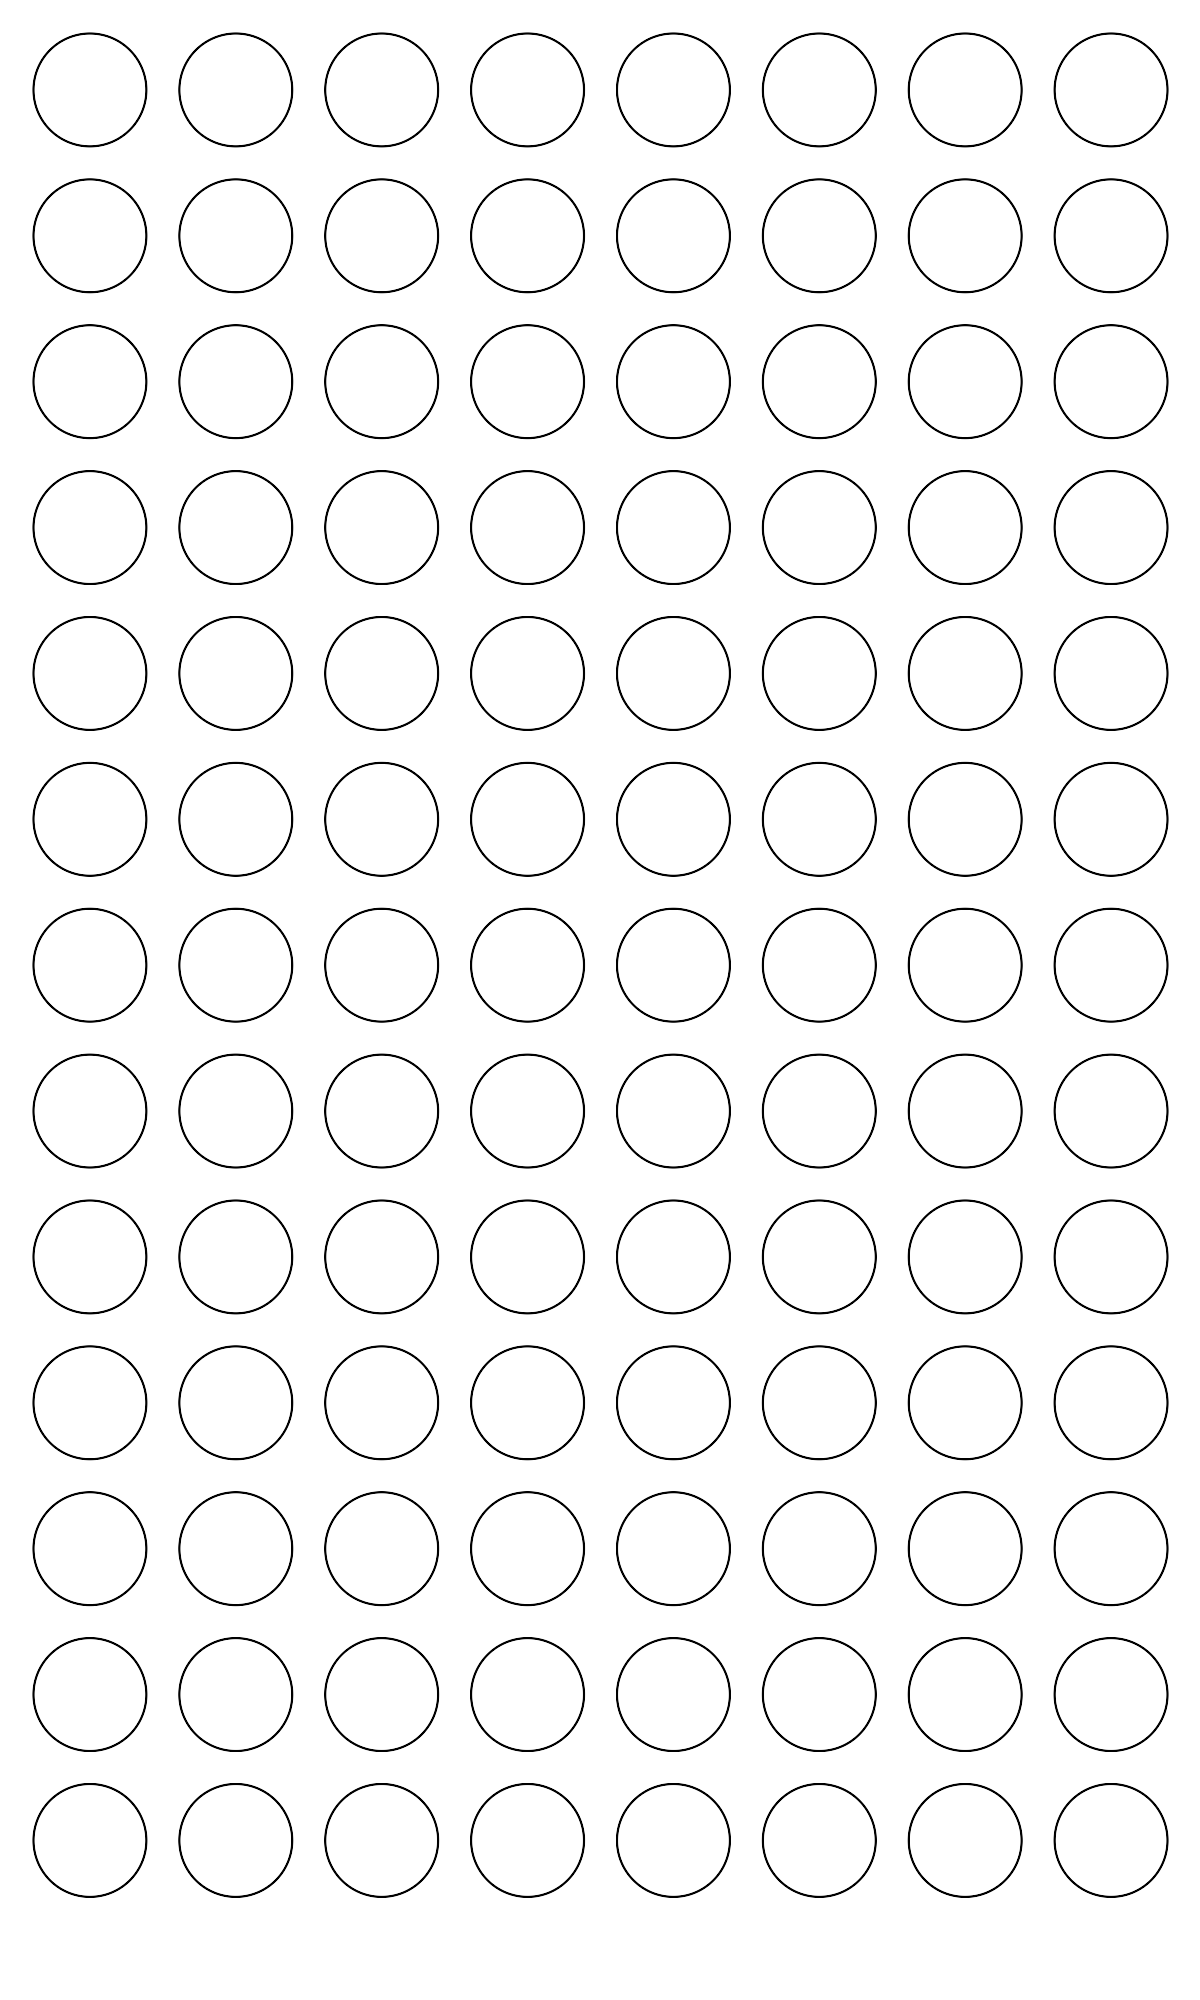
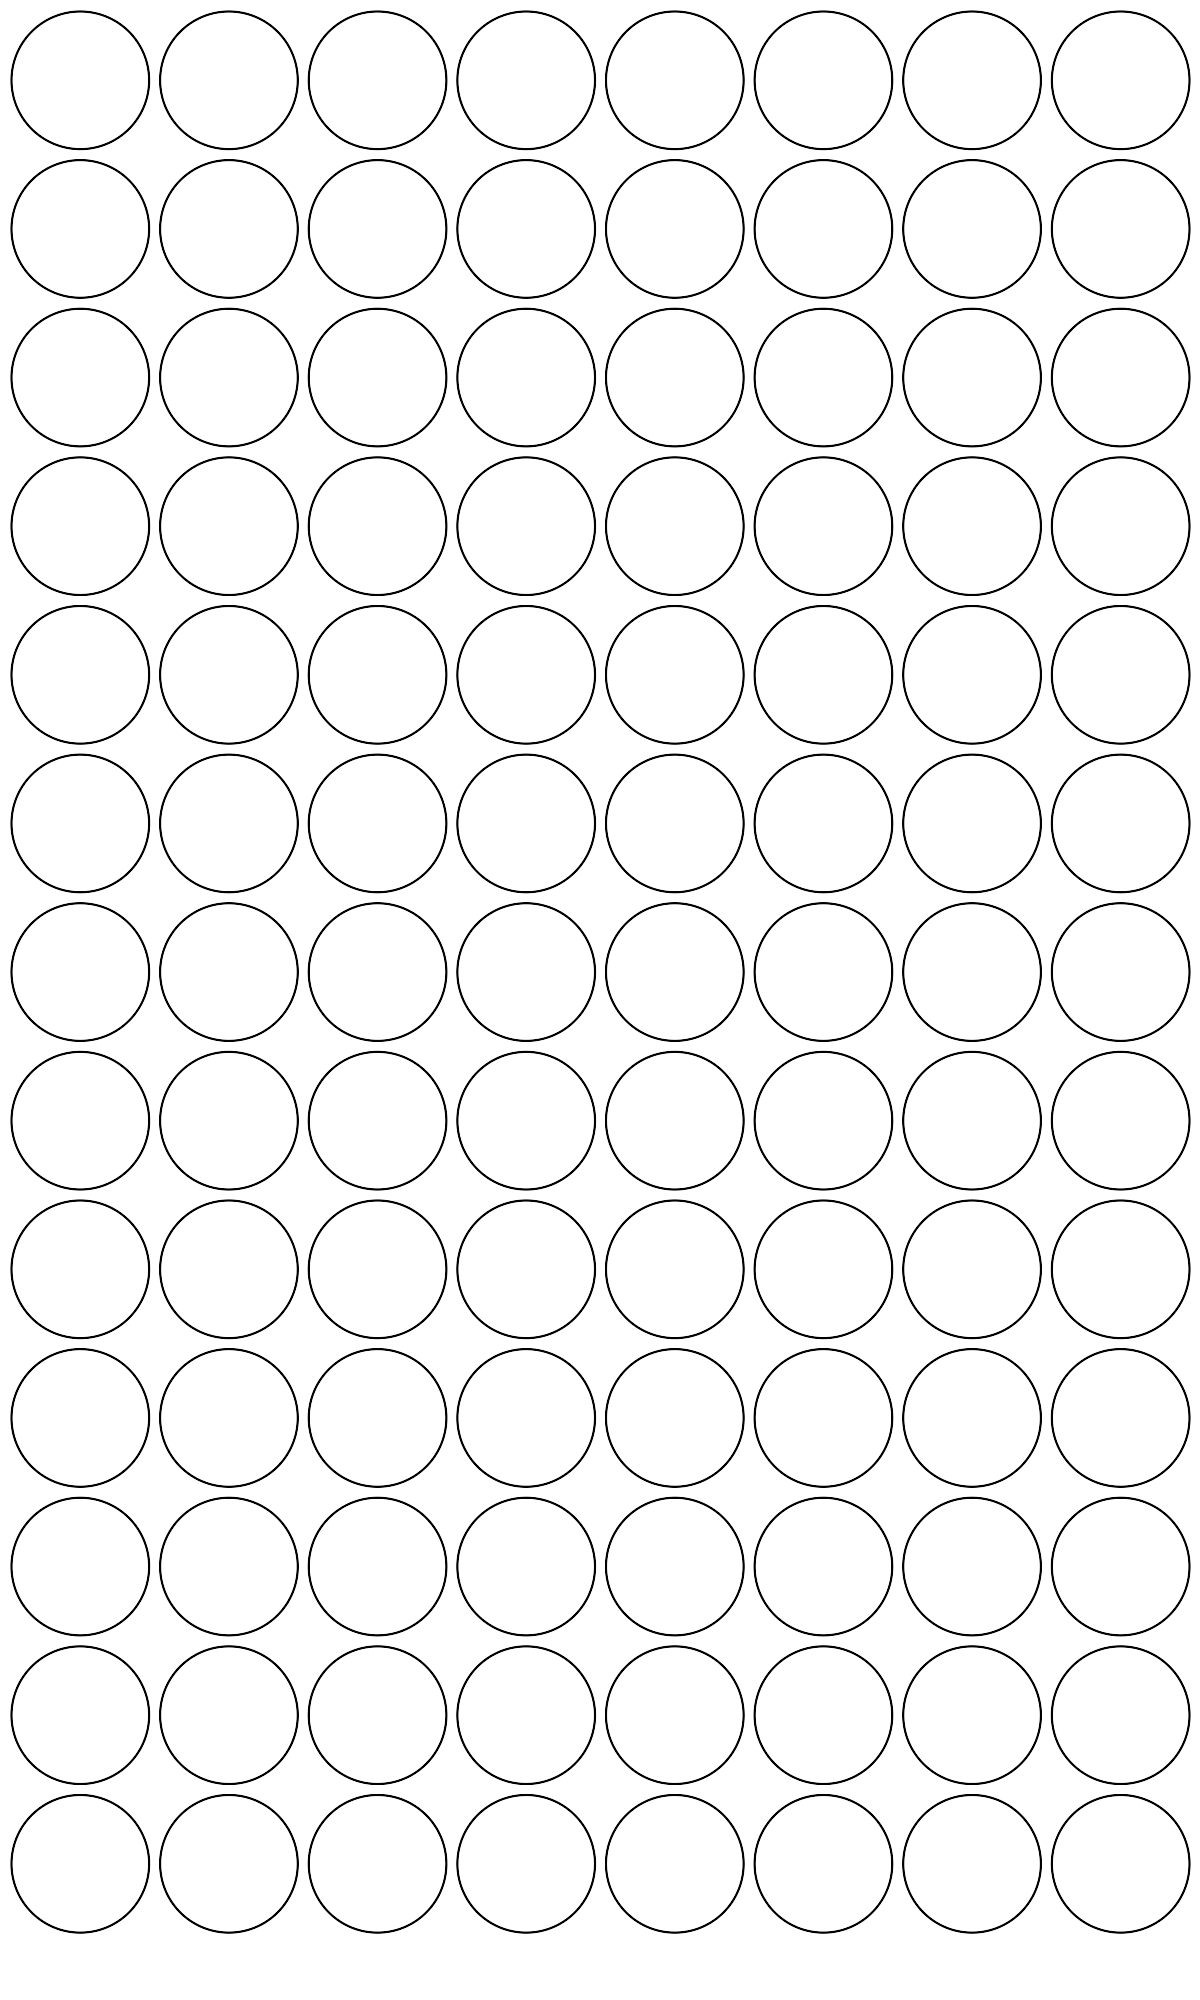
commit

diff --git a/drawing-templates-generator.py b/drawing-templates-generator.py
@@ -149,7 +149,7 @@ height_option = click.option("--height",
 
 spacing_option = click.option("--spacing",
                               type=int,
-                              default=33,
+                              default=11,
                               metavar="<spacing>",
                               show_default=True,
                               help="Margin/padding between the shapes, in pixels")
